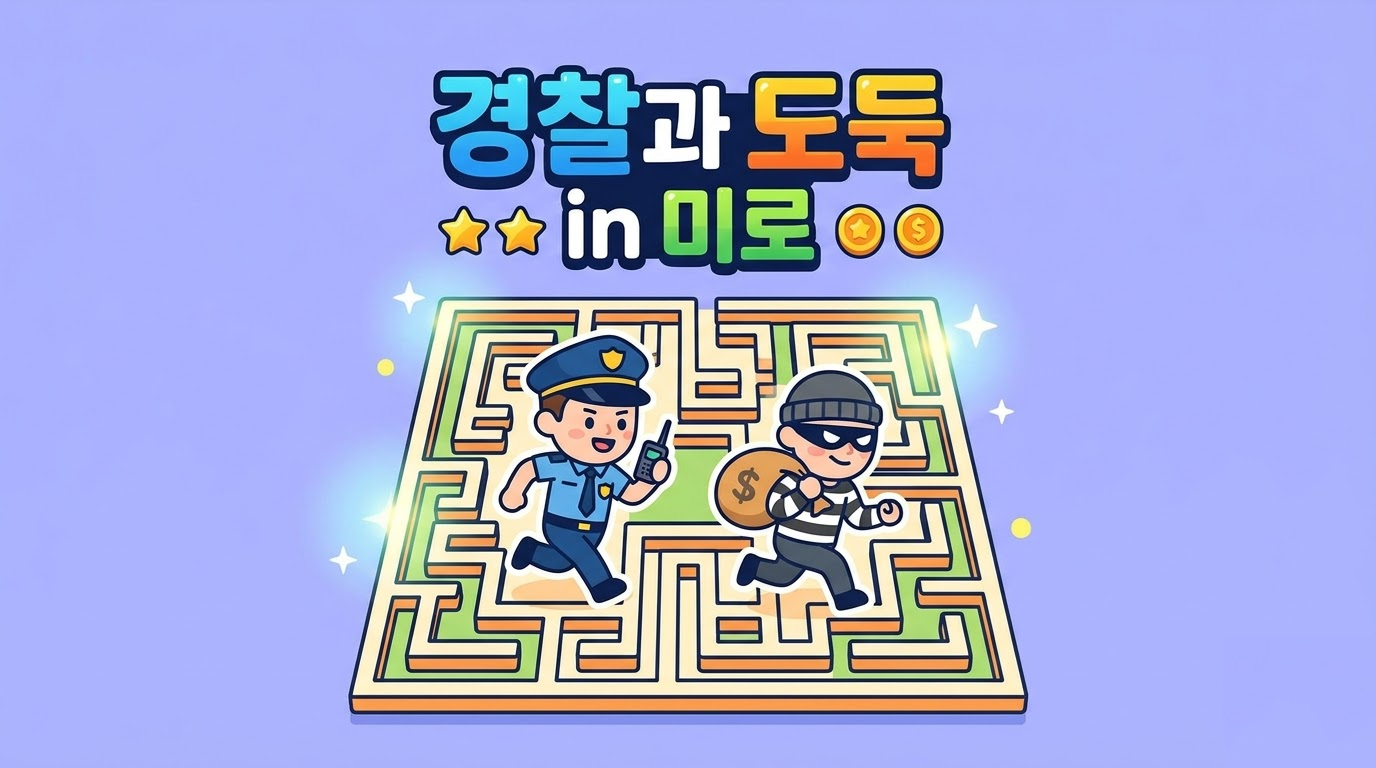
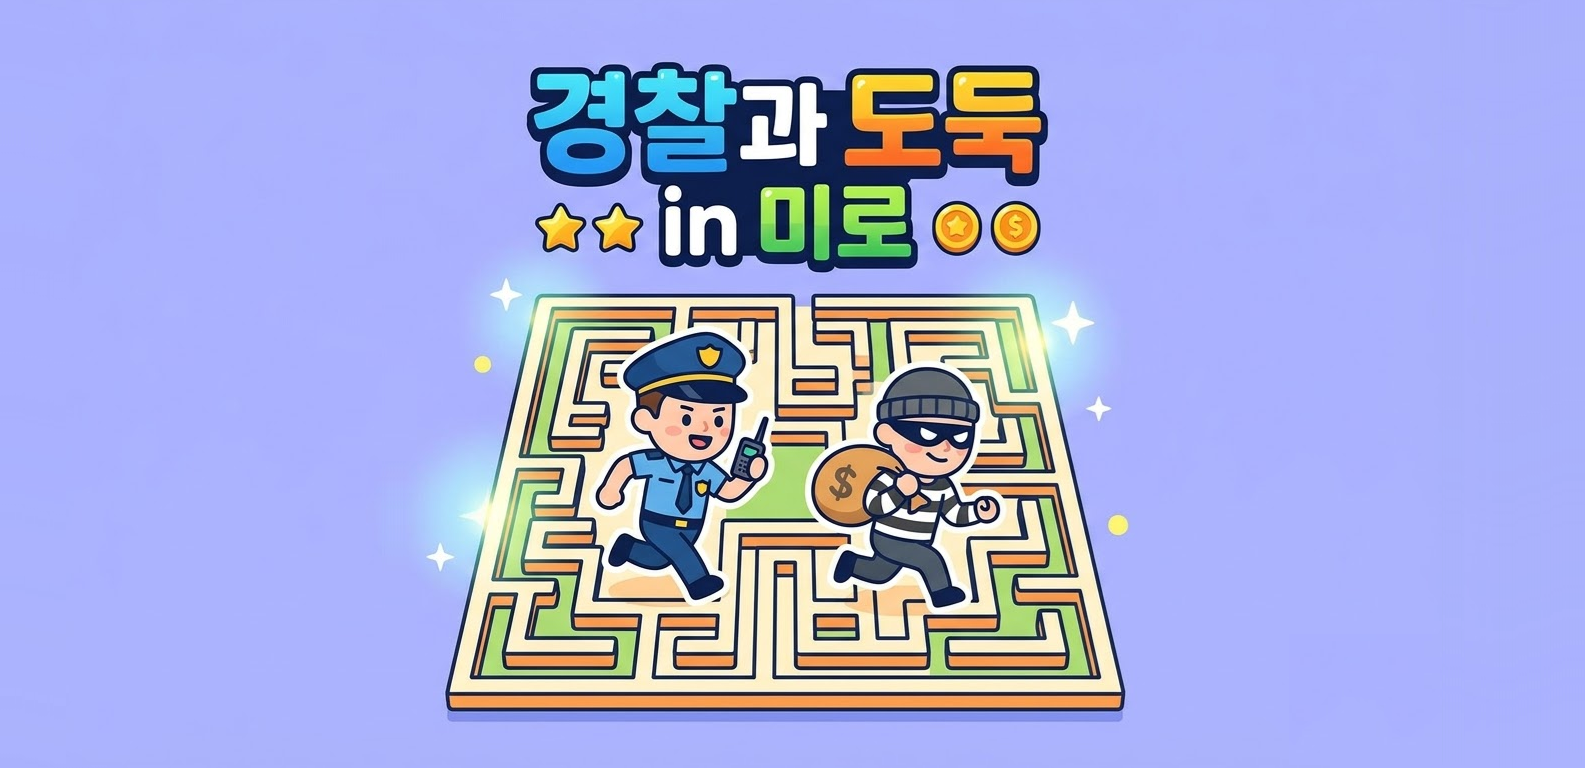
fix: mobile-web-app-capable 메타로 변경, OG 썸네일 갱신
Made-with: Cursor

Changed region(s): [[0.2188, 0.0625, 0.75, 0.9688]]

diff --git a/client/app/layout.tsx b/client/app/layout.tsx
@@ -6,7 +6,6 @@ const siteUrl = process.env.NEXT_PUBLIC_SITE_URL || 'https://mirogd.vercel.app';
 export const metadata: Metadata = {
   title: '미로 속 경찰과 도둑',
   description: '친구와 함께하는 실시간 미로 추격 게임',
-  appleWebApp: { capable: true, statusBarStyle: 'black-translucent' },
   metadataBase: new URL(siteUrl),
   openGraph: {
     title: '미로 속 경찰과 도둑',
@@ -46,6 +45,9 @@ export default function RootLayout({
 }) {
   return (
     <html lang="ko">
+      <head>
+        <meta name="mobile-web-app-capable" content="yes" />
+      </head>
       <body>{children}</body>
     </html>
   );
